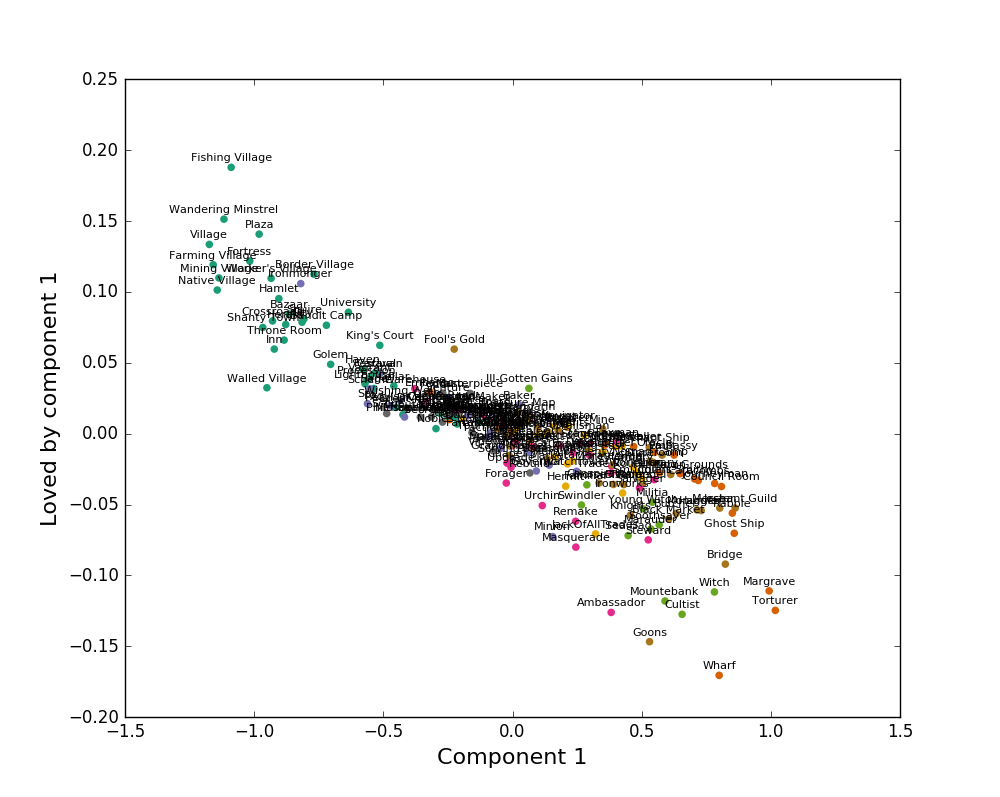
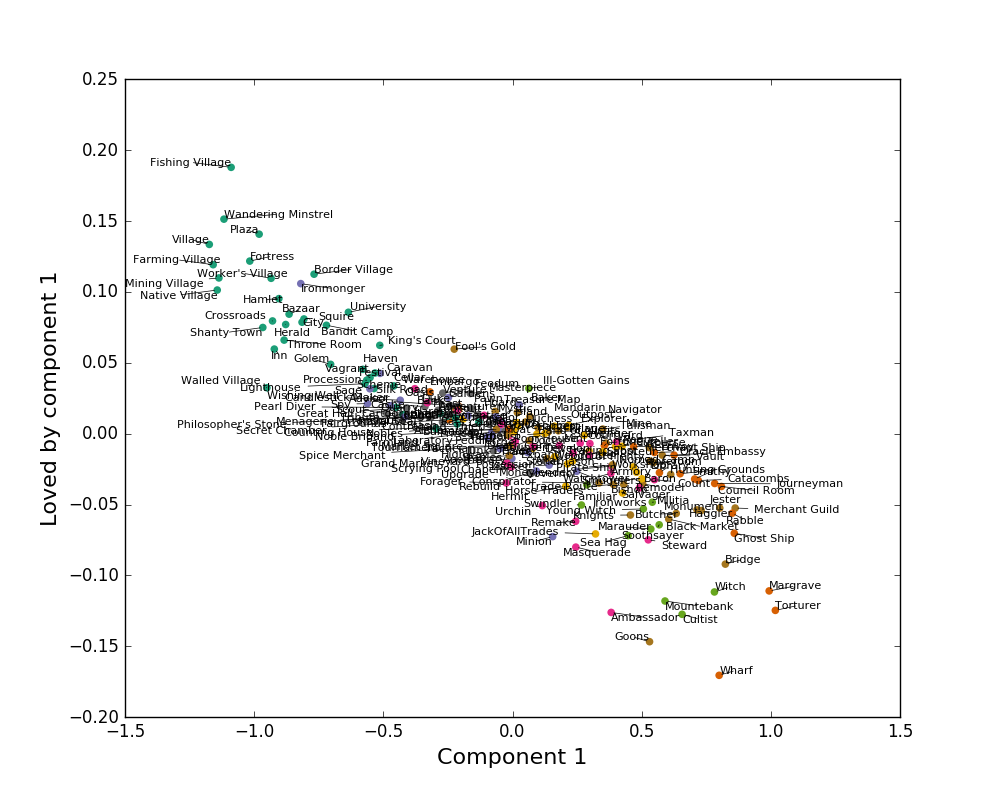
use adjustText package to fix text labels

Changed region(s): [[0.124, 0.2409, 0.837, 0.813], [0.155, 0.1807, 0.279, 0.2108], [0.713, 0.813, 0.744, 0.8432]]

diff --git a/PCA_plotting.py b/PCA_plotting.py
@@ -14,6 +14,7 @@ from sklearn.decomposition import PCA
 import matplotlib.pyplot as plt
 import sklearn.semi_supervised as semi
 from sklearn.cluster import SpectralClustering as spectral
+import adjustText
 
 #When you create an instance of this class, it loads all the information about the PCA and clustering models
 #this is used to create maps
@@ -23,12 +24,20 @@ class card_model:
             self.reduced_vectors, self.model_components, self.kingdom_list, self.cluster_labels = pickle.load(f)
             self.label_size = 10
             self.figure_size = (10,8)
+            self.adjust_text = False
+            self.repel_strength = 0.01
     
     def set_figure_size(self,width,height):
         self.figure_size = (width,height)
         
     def set_label_size(self,size):
         self.label_size = size
+    
+    #This can be set to True in order to adjust the positions of text labels to make them overlap less
+    #this takes a long time, and is not always effective
+    def set_adjust_text(self,adjust_text, repel_strength=0.01):
+        self.adjust_text = adjust_text
+        self.repel_strength = repel_strength
     
     def pca_map_color(self,axis1,axis2,axis1_type='card',axis2_type='card'):
         plt.figure(figsize=self.figure_size)
@@ -57,7 +66,14 @@ class card_model:
             raise Exception('Must choose "card","prom", or "love" as axis type.')
 
         plt.scatter(component1, component2,lw=0,s=30,c=self.cluster_labels,cmap=plt.cm.Dark2)
+        
+        texts = []
         for label, x, y in zip(self.kingdom_list, component1, component2):
-            #plt.text(x,y+.1,label,ha='center', va='center')
-            plt.annotate(label, xy = (x,y),xytext = (0,self.label_size*0.6),textcoords='offset points',ha='center',fontsize=self.label_size)
+            if(self.adjust_text):
+                texts.append(plt.text(x,y,label,fontsize=self.label_size))
+            else:
+                plt.annotate(label, xy = (x,y),xytext = (0,self.label_size*0.6),
+                             textcoords='offset points',ha='center',fontsize=self.label_size)
+        if(self.adjust_text):
+            adjustText.adjust_text(texts,force_text=self.repel_strength,arrowprops=dict(arrowstyle="-", color='k', lw=0.5),text_from_points=False,expand_text=(1,1))
         plt.show()
